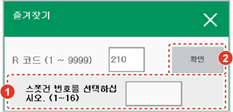
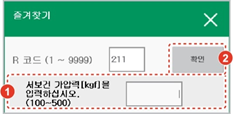
GitBook: [master] 3 pages and 3 assets modified

diff --git a/8-r-code/r211.md b/8-r-code/r211.md
@@ -1,2 +1,19 @@
 # 8.6 R211 서보건 가압력 설정
 
+서보건 가압 실행 시 가압력을 수동으로 설정합니다.
+
+1.	즐겨찾기 창에서 211을 입력한 후 \[확인\] 버튼을 터치하거나 &lt;enter&gt; 키를 누르십시오.
+
+2.	서보건 가압력을 입력한 후 \[확인\] 버튼을 터치하거나 &lt;enter&gt; 키를 누르십시오.
+
+![](../.gitbook/assets/image%20%28262%29.png)
+
+* 용접 조건 파일의 가압력은 변경되지 않습니다.
+* 입력한 가압력이 서보건 파라미터의 전류 가압력 테이블의 상한치보다 크거나 작으면 경고 메시지가 나타납니다.
+
+{% hint style="info" %}
+* 로봇 기동 중에는 R211 코드를 사용할 수 없습니다.
+* 스폿 용접 환경\(\[설정 &gt; 5: 초기화 &gt; 3: 용도설정\] 메뉴의 \[스폿용접\] 항목을 유효로 설정\)에서만 스폿건 번호를 설정할 수 있습니다.
+* 서보건 가압력 수동 설정에 대한 자세한 내용은 “Hi6제어기 스폿용접 기능 설명서”를 참조하십시오.
+{% endhint %}
+

diff --git a/8-r-code/r210.md b/8-r-code/r210.md
@@ -6,7 +6,7 @@
 
 2.	사용할 스폿건 번호를 입력한 후 \[확인\] 버튼을 터치하거나 &lt;enter&gt; 키를 누르십시오.
 
-![](../.gitbook/assets/image%20%28262%29.png)
+![](../.gitbook/assets/image%20%28263%29.png)
 
 * Hi6 티치 펜던트 화면 좌측의 \[건\] 버튼에 선택한 스폿건 번호가 표시됩니다.
 * 스폿건 번호를 변경하면 스폿건 대응 툴 번호에 지정된 툴 번호가 자동으로 변경됩니다. 스폿건 대응 툴 번호는 \[설정 &gt; 4: 응용파라미터 &gt; 1: 스폿용접 &gt; 1: 건번호 대응 툴번호, 건타입 설정\] 메뉴에서 확인할 수 있습니다.

diff --git a/8-r-code/r117.md b/8-r-code/r117.md
@@ -6,7 +6,7 @@
 
 2.	삭제할 프로그램 번호를 입력한 후 \[확인\] 버튼을 터치하거나 &lt;enter&gt; 키를 누르십시오. 삭제 확인창이 나타납니다.
 
-![](../.gitbook/assets/image%20%28263%29.png)
+![](../.gitbook/assets/image%20%28264%29.png)
 
 * 삭제할 파일이 없으면 알림 메시지\(“파일이 존재하지 않습니다.”\)가 나타납니다.
 * 보호 설정된 프로그램을 삭제하려하면 알림 메시지\(“보호된 파일입니다.”\)가 나타납니다
